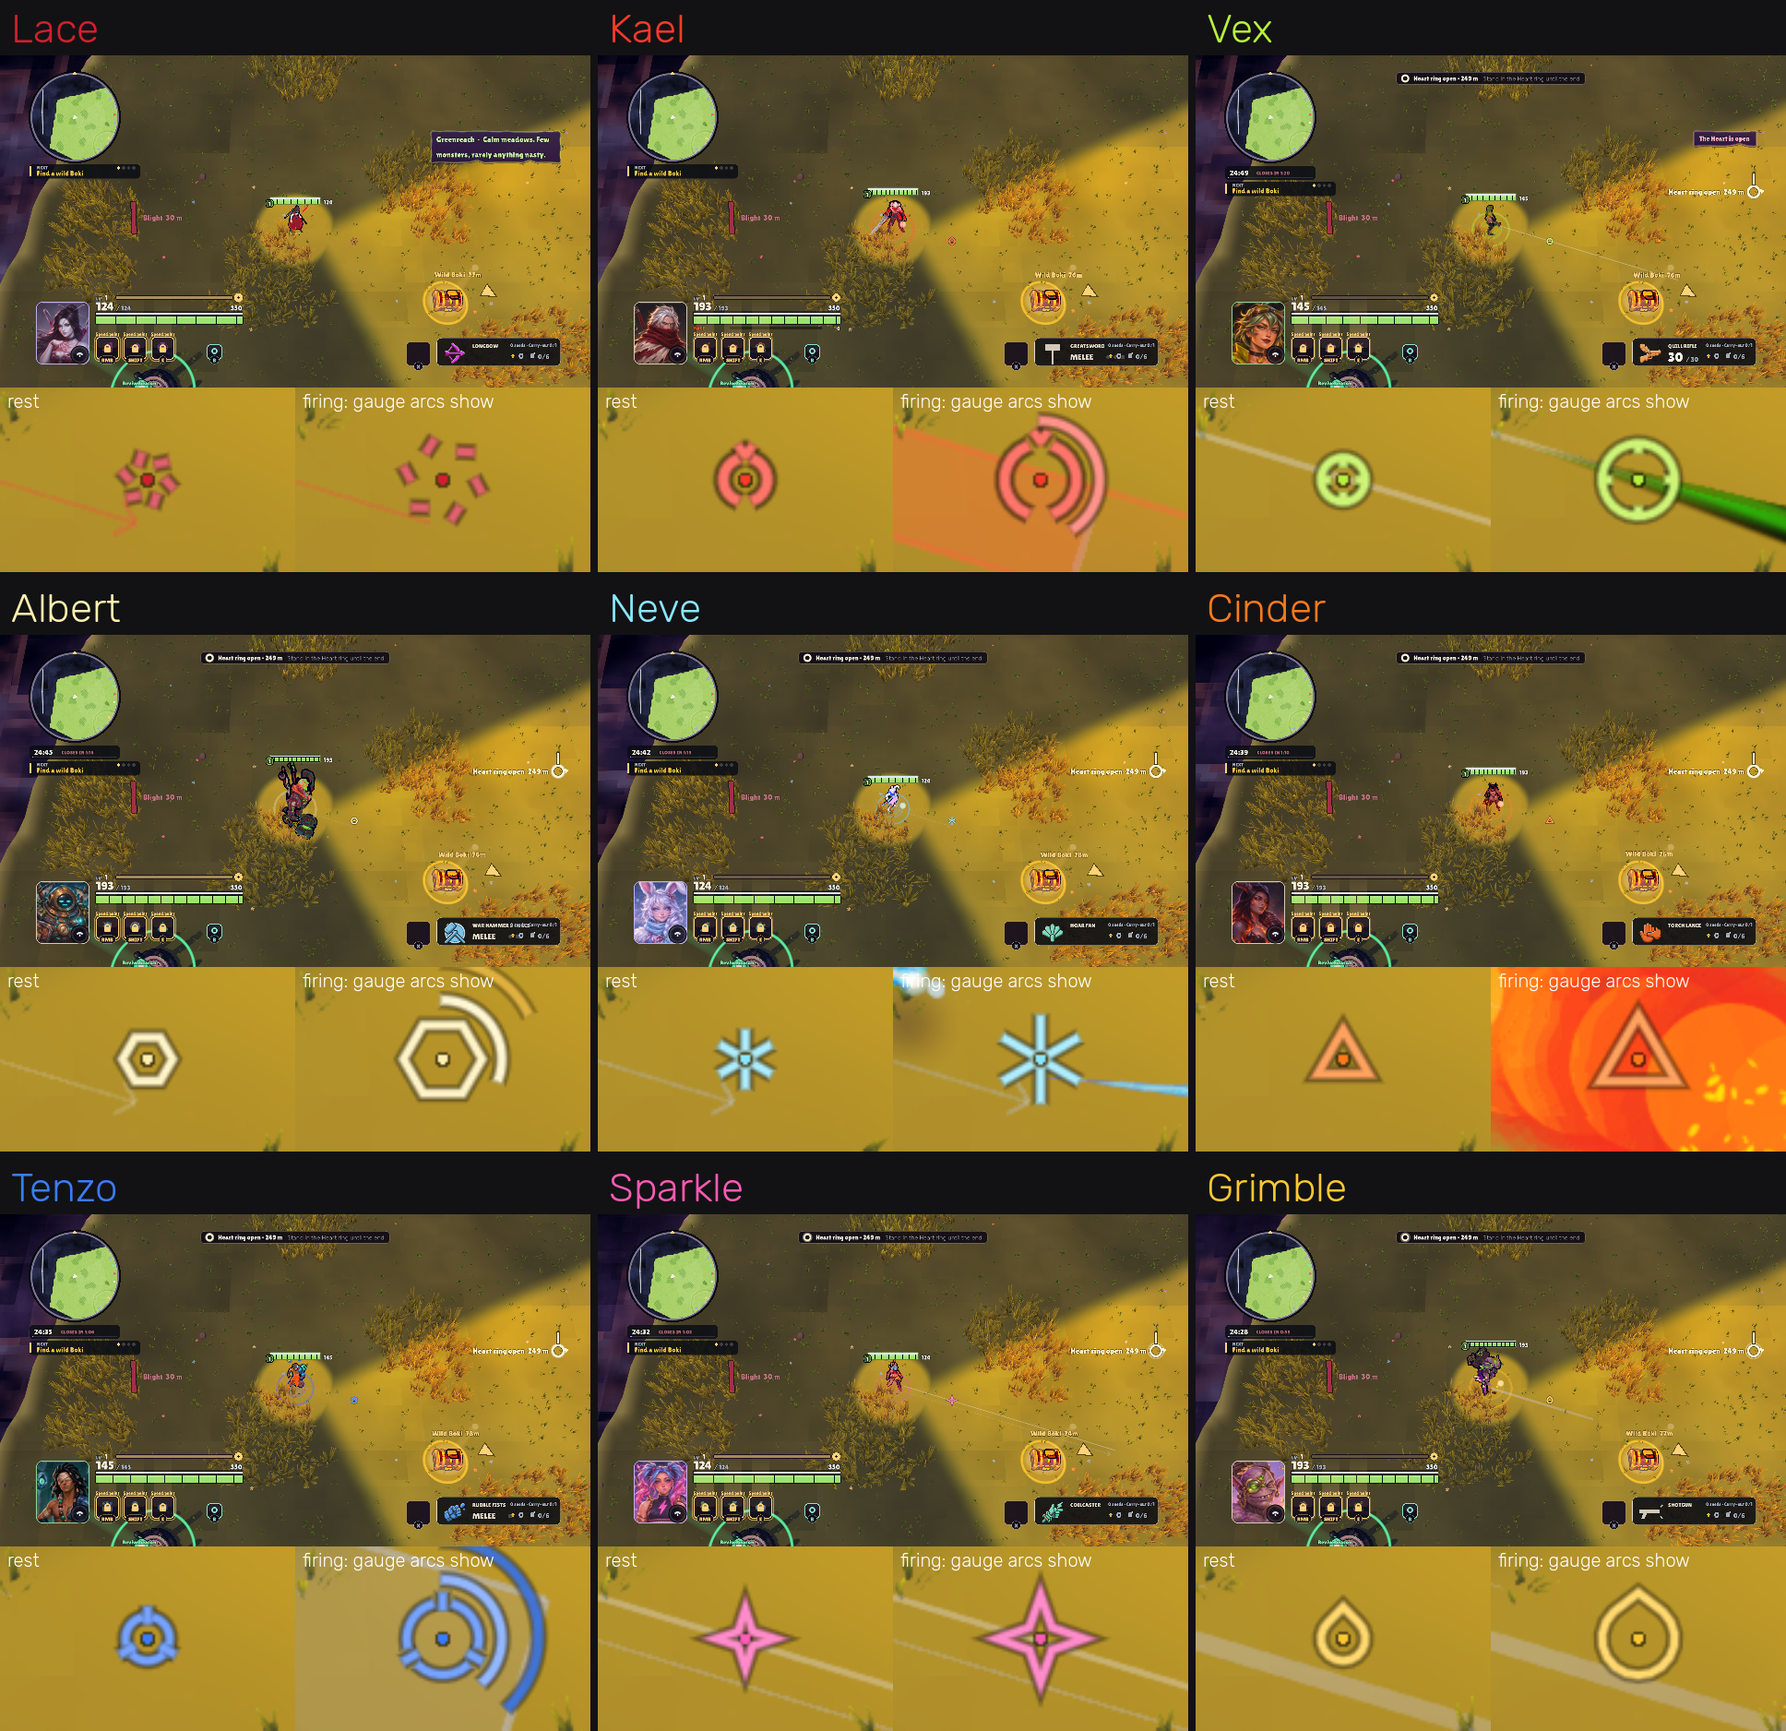
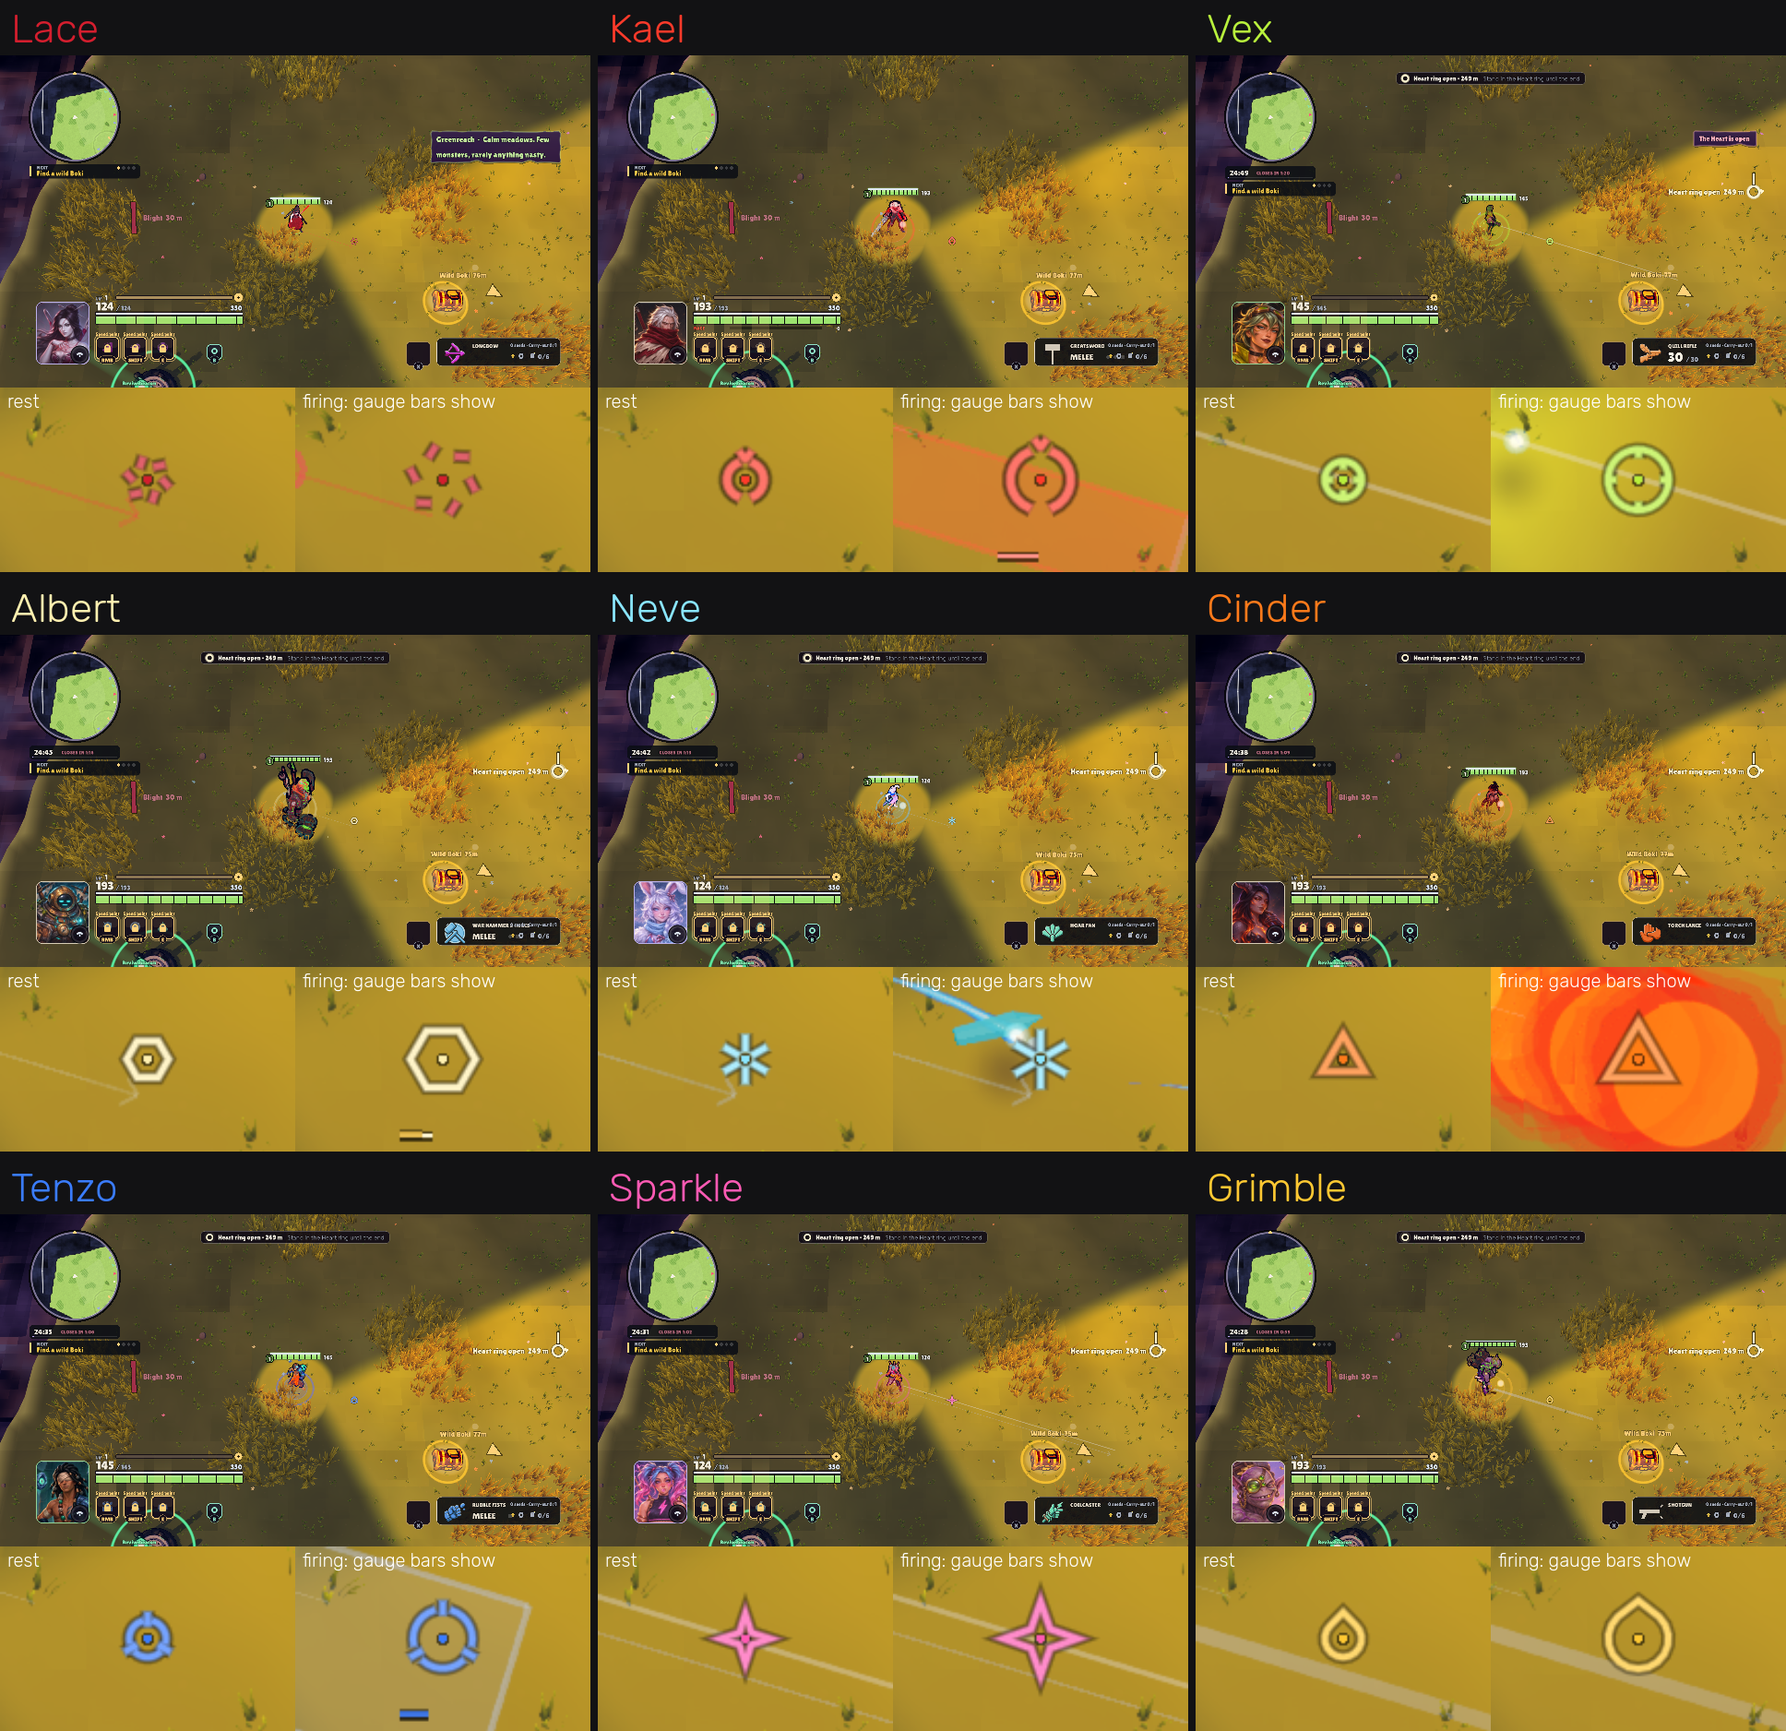
reticle: gauges are bars under the reticle, not arcs round it (art-gate: arcs read as a second ring)
Resource, charge, warm-up, spin-up and the AimKit cursor charge draw as short bars under the reticle
(Reticle.bar, tuning bar_w/bar_y/bar_step); the unused res_r is gone. The AimKit body-mode ring stays. Proof
sheets re-shot on a real GPU with a taller zoom so the bars show.

diff --git a/docs/wiki/Rules.md b/docs/wiki/Rules.md
@@ -2601,7 +2601,7 @@ The Boki base's playthings (GARDEN.md section 4; only while farm_build.json base
 | dash_glide | {"ease_t": 0.07, "grace": {"default": 0.15, "juggernaut": 0.25}} |
 | dash_speed | {"archer": 0.7} |
 | sources | {"doc": "Where each glide/air number comes from (SUPERVIVE_FEEL.md 'Footage pass', Nov 12 2026). Notes only, nothing here is read as a number. Trust order: owner > game data > wiki > footage.", "glide_cruise": "SETTLED 5.0 m/s x body_scale = 5.8 m/s (HunterMove.glide_cruise): [game data] MaxGlide 500 uu/s; [footage] ~5 m/s, run pace. Agree; at our body scale like the walk (decision 0061).", "glide_base_speeds": "Not determinable (GlideInitial*/TargetXY* encrypted): glide.drag/drag_steer/max are ours. No player glide start in the hero-ref clips; Elluna 706.8 s dash-into-glide still decaying (11 -> 8 m/s) when the track ends.", "glide_gravity": "Not determinable (GlideGravityFactor encrypted): Hunter.GLIDE_SINK 1.4 m/s is ours; footage shows only the height hold (Tom Kick ~14 s level) and lift (Zik ~1 s back up).", "glide_braking": "Not determinable (GlideBraking* encrypted): glide.coast and glide.brake/brake_deg are ours. Tetra guide 300 s and showcase 1174 s frame-stepped: no player let-go or back-key brake.", "hoop_boost": "Not determinable (GlideBoost* encrypted): no hoop or jetstream in any hero-ref clip.", "jump_hold": "Not determinable: a key hold is not visible on screen. Owner: fixed jump, Space held never opens the glider.", "air_dash": "Per Hunter (AirDashSpeedMultiplier/Clamp encrypted): Shiv ~1.7x ground (8.4 m / 0.95 s, dancer.md 303.8-304.5 s, 0129-0134), carried to the landing; Elluna 11-15 m / 0.8-1.1 s (mooshmoosh.md 731.1/706.8/735.9/745.1 s) = tender dash.air; Kingpin card 'further', air_k 1.35 est; the other nine: Not determinable, no air dash in their clips."} |
-| reticle | {"_about": "The cursor reticle (scripts/ui/reticle.gd, reticle_hud.gd). px at size 1 unless a key says otherwise.", "ring_r": 6.0, "dot_r": 1.4, "line_w": 1.3, "cross_len": 5.0, "cross_gap": 3.0, "edge_w": 0.8, "edge_a": 0.6, "look_lift": 0.3, "arc_gap_rad": 0.32, "spread_max": 16.0, "charge_r": 16.0, "res_r": 21.0, "arc_w": 1.5, "arc_w_full": 2.0, "flare_s": 0.18, "flare_grow": 7.0, "hit_s": 0.15, "hit_knock_s": 0.22, "hit_gap": 3.5, "hit_len": 7.0, "hit_len_crit": 10.5, "hit_w": 2.0, "hit_w_crit": 2.6, "hit_pop": 3.0, "hit_ring_flash": 0.85, "crit_pulse_grow": 9.0, "col_hit": "ffffff", "col_crit": "ffd23f", "col_armor": "dfe9f7", "col_armor_crit": "cfefff", "col_warm_up": "ffb34d"} |
+| reticle | {"_about": "The cursor reticle (scripts/ui/reticle.gd, reticle_hud.gd). px at size 1 unless a key says otherwise.", "ring_r": 6.0, "dot_r": 1.4, "line_w": 1.3, "cross_len": 5.0, "cross_gap": 3.0, "edge_w": 0.8, "edge_a": 0.6, "look_lift": 0.3, "arc_gap_rad": 0.32, "spread_max": 16.0, "charge_r": 16.0, "bar_w": 28.0, "bar_y": 25.0, "bar_step": 5.0, "arc_w": 1.5, "arc_w_full": 2.0, "flare_s": 0.18, "flare_grow": 7.0, "hit_s": 0.15, "hit_knock_s": 0.22, "hit_gap": 3.5, "hit_len": 7.0, "hit_len_crit": 10.5, "hit_w": 2.0, "hit_w_crit": 2.6, "hit_pop": 3.0, "hit_ring_flash": 0.85, "crit_pulse_grow": 9.0, "col_hit": "ffffff", "col_crit": "ffd23f", "col_armor": "dfe9f7", "col_armor_crit": "cfefff", "col_warm_up": "ffb34d"} |
 | lace | {"_note": "Lace's bow feel (PinDraw), owner 11-08: perfect_window_s = how long after a draw stage comes up a release is still perfect (the source's is about 0.15 s; the owner asked for about 0.2 s more); perfect_glow_rim / perfect_glow_col = the toon rim amount and hex colour on her body and bow while the window is open; perfect_payoff_rim / perfect_payoff_s = the stronger rim and its length in s on a perfect release.", "perfect_window_s": 0.35, "perfect_glow_rim": 1.2, "perfect_glow_col": "ffd36a", "perfect_payoff_rim": 2.4, "perfect_payoff_s": 0.16} |
 | tenzo | {"_note": "Tenzo (dolm). r_floor: the slab of rock ground his R (Basalt Spine) raises under him on the press, the same frame (BreahSpine.floor_under): r m round him (abyss tiles only turn to ground), time s it lasts, warn s of cracks and shake before it crumbles, rise s the slab takes to heave up (the ground is solid at once), col its stone. rmb: Quakefall's held hop (BreahSlam): windup s planted in a deep crouch before take-off, hop_up m/s up off the ground, fall_k the gravity multiplier on the way down (a thrown stone drops hard), ease how much faster than its average the hop leaves the ground (its ground speed eases to nil at the landing), carry the share of his run the hop keeps, nudge m/s the move keys bend its ground speed by, dive_hang s he hangs at the top of an air press before the plunge, dive_acc m/s^2 the plunge speeds up at toward its cap.", "r_floor": {"r": 1.6, "time": 6.0, "warn": 1.5, "rise": 0.12, "col": "#3e5560"}, "rmb": {"windup": 0.16, "hop_up": 6.0, "fall_k": 1.4, "ease": 1.5, "carry": 0.25, "nudge": 1.2, "dive_hang": 0.1, "dive_acc": 70.0}} |
 | feel | {"doc": "The match hunter's ledge, abyss, glide, drop, dive and landing numbers (HunterFeel, scripts/match/hunter_feel.gd; were consts in hunter.gd). Read once at load, not live.", "notes": {"spirit_climb": "m/s a Spirit Walk rises up a ledge face (Phase Walk goes through raised terrain)", "ground_accel": "[spec] near-instant: top speed in ~0.055s (was 70)", "air_decel": "let go on a ledge rise and you mostly stop", "air_overspeed": "but momentum above run speed (a dash, a pad) still carries", "glide_grav": "[O] m/s^2, gravity while a glider is open and the heat is gone", "glide_engage": "scripted input only (checks, demos): hold glide this long in the air and it opens. A player's keys never hold-open it (glide_press_only) (the dedicated glide button, Mouse 5, opens it at once)", "abyss_lift": "[est] upward pull (m/s^2) just under the lip...", "abyss_lift_per_m": "[est] ...plus this per metre deeper (10m down: 92 m/s^2)", "abyss_lift_max": "[est] fastest climb just under the lip...", "abyss_lift_max_per_m": "[est] ...plus this per metre deeper (12m down: ~18 m/s; item 63: ~30% under the old ~25)", "abyss_lift_cap": "item 63: the deepest climb is 30% softer than the old 26", "abyss_brake_dist": "...that brakes near ground level (let go just before to keep the height)", "abyss_brake": "[E] m/s^2, the brake that slows the lift in its last abyss_brake_dist", "abyss_lip_vy": "[est] m/s still rising as the lift reaches the lip: it bounces up past it", "abyss_brake_gain": "(movefeel) rise speed per metre left in the brake zone (was 2: the last metre crawled)", "mantle_reach": "[game data] MantleSuctionUpwardsForceHeightMax: a lip this far above you pulls you up", "tall_climb_extra": "m: Archer and Juggernaut also climb double-high ledges ([game data] bCanWallJump)", "mantle_reach_abyss": "below an island's lip over the abyss, its side catches you this far down (movefeel: was 3.5) (a bit past the normal ledge reach); deeper you slide down the face", "wall_catch_reach": "(movefeel) over the abyss below a lip, a wall this far from your side catches you (elsewhere 0.4)", "abyss_glide_room": "a glider with heat left (lifting you out) gets this much more room", "ledge_reach": "[E] m, a ledge this far above you can be climbed (walk into it)", "ledge_cd": "[E] s, before another ledge climb may start", "float_speed": "[E] m/s, the fastest a float (a lift's hang at the top) carries you sideways", "glide_fall": "[O] m/s, the glider's sink with fuel (the readout's number)", "dive_fall": "[est] a punchy skydive (was 11)", "dive_speed": "m/s, top flat speed in the dive (DropFeel)", "drop_fall": "[E] m/s, the open glider's sink in the opening drop", "drop_speed": "m/s, top flat speed under the open glider", "dive_vy_rate": "the dive reaches its fall speed in ~0.3s (was 4)", "drop_vy_rate": "the canopy settles to its sink in ~0.2s after it opens (was 4)", "deploy_pop": "the canopy catching: your fall checks to this, then settles to DROP_FALL", "deploy_h": "the glider opens by itself this high above the ground", "feather_keep": "[est] seconds after a glider close that count as just off it (ledges, wall shove)", "feather_min": "[est] the glider reopens with this much heat room left (was 0.15)", "feather_tap": "[est] an abyss lift's quick first seconds, heating at HunterMove.lift_tap_heat", "lrise_speed": "[footage] the fastest rise from deep in the abyss (HunterMove.rise_vy)", "lrise_min": "[est] up speed walking into a ledge starts its rise with", "lrise_pop": "[est] up speed as you clear the lip with no jump (a ~0.25m pop)", "lrise_off": "moved this far out from the face: you've let go", "lrise_window": "[est] the fling window: the last this-many metres below the top (~0.12s)", "fling_height": "[est] a fling timed in the window peaks this high over the top...", "fling_speed": "[est] ...going this fast toward your keys (run speed is ~5)", "fling_early_height": "[est] a jump before the window: only just over the top, at run speed", "abyss_extra": "[game data] AbyssHeight: lost 17.5m under ground level (with World.ABYSS_DEPTH)"}, "spirit_climb": 14.0, "ground_accel": 90.0, "air_decel": 9.0, "air_overspeed": 3.0, "glide_grav": 14.0, "glide_engage": 0.1, "abyss_lift": 22.0, "abyss_lift_per_m": 7.0, "abyss_lift_max": 5.0, "abyss_lift_max_per_m": 1.1, "abyss_lift_cap": 18.2, "abyss_brake_dist": 2.5, "abyss_brake": 60.0, "abyss_lip_vy": 4.5, "abyss_brake_gain": 3.5, "mantle_reach": 1.5, "tall_climb_extra": 0.9, "mantle_reach_abyss": 4.5, "wall_catch_reach": 0.75, "abyss_glide_room": 1.5, "ledge_reach": 2.8, "ledge_cd": 0.45, "float_speed": 12.0, "glide_fall": 1.7, "dive_fall": 13.0, "dive_speed": 14.0, "drop_fall": 4.2, "drop_speed": 8.0, "dive_vy_rate": 7.0, "drop_vy_rate": 9.0, "deploy_pop": -1.6, "deploy_h": 8.0, "feather_keep": 0.6, "feather_min": 0.05, "feather_tap": 0.3, "lrise_speed": 14.0, "lrise_min": 4.0, "lrise_pop": 2.6, "lrise_off": 0.9, "lrise_window": 0.6, "fling_height": 0.9, "fling_speed": 7.5, "fling_early_height": 0.2, "abyss_extra": 11.5} |

diff --git a/docs/AIMKIT.md b/docs/AIMKIT.md
@@ -11,7 +11,7 @@ cursor state plus `MANIFEST.txt`).
 | `aim_draw.gd` (`AimDraw`) | One node per match. Rebuilds every telegraph into one ArrayMesh each frame (AimGeo's packed arrays, one call per surface) |
 | `aim_shapes.gd` (`AimShapes`) | The shape builders and the quiet default look |
 | `aim_geo.gd` (`AimGeo`) | Triangle helpers (ribbons, rings, sectors, chevrons, stars) that sit each vertex on the ground |
-| `aim_reticle.gd` (`AimReticle`) | The cursor states: charge ring (filled part only, no track), full flare, perfect star |
+| `aim_reticle.gd` (`AimReticle`) | The cursor states: charge bar under the cursor (filled part only), full flare, perfect star |
 | `scripts/ui/reticle.gd`, `reticle_hud.gd` (`Reticle`, `ReticleHud`) | The cursor reticle under them: the broken ring that opens with bloom, the dot in the Hunter's accent (`Arch.color`, the Hunter's own colour: Vex green, Sparkle pink, Tenzo blue), the ammo / resource / charge arcs, the hit tick (raised by `hud.reticle`, one per landed hit, gold on a crit, longer on a knock). Thin strokes with a dark edge; numbers in `content/rules/tuning.json` "reticle" |
 | `aim_reach.gd` (`AimReach`) | The range preview of a ground-target slot: a faint max-range ring and the landing disc |
 
@@ -208,8 +208,8 @@ AimKit.perfect(h)                    # the perfect-window star: gold 4-point sta
 AimKit.reticle(h)                    # {charge, flare, perfect, at}, for checks
 ```
 Params: `col` (charge ring colour, default the hero colour), `col2` (flare colour), and `col` on
-`perfect` (gold by default). The states run on real time, so they show through hit stop. The ring sits
-at 26 px, outside the HUD's 22 px ammo ring and inside its 30 px resource arc.
+`perfect` (gold by default). The states run on real time, so they show through hit stop. The charge is a bar under
+the cursor (slot 0; the resource bar is slot 1), and the flare ring starts at 26 px.
 
 ## 3b. The body's aim across terraces (pose only)
 `inp["aim_y"]` is the height of what the cursor is on; the shot climbs or dips to it (`Match.AIM_DY_MAX`, rises under 0.3 m stay flat). The body now follows the same number: `AimPitch.of(h)` is `atan2(rise, max(1.5 m, distance))` clamped to +-20 degrees (`AimPitch.MAX`), 0 on flat ground and past `AIM_DY_MAX`. `HunterAnim` eases it (10/s) and weights it by the aim (LMB hold, casts, kit moves; not dashes, glides, dives, ledges, rolls or downed). The spine takes half (the Torso, or the hips bone on a .glb: the thighs do not follow, so the feet stay planted), the arms and weapon the other half (`WardenAim` after the clips, for the .glb; the procedural rig in `_upper`). Projectiles and telegraphs are unchanged: this is the pose, not the hit. The 20 degree clamp is ours: the briefs hold no footage measurement of the source's aim lean (open: measure it). Remote players show flat (`aim_y` is not synced, no Net change). Proof: `--aim-pitch-check`.

diff --git a/docs/HUD.d/1126-reticle-looks.md b/docs/HUD.d/1126-reticle-looks.md
@@ -8,16 +8,15 @@ Sable corner brackets, Motley a harlequin diamond, Gil a ring with a fin. With t
 Hunter's colour lifted by tuning `look_lift` (dark colours still read on dark ground); the dot keeps the plain accent.
 Every look is strokes only, at most 3 px past the plain ring, and opens with bloom.
 
-The ammo no longer draws at the cursor (tuning `reticle.ammo_at_cursor`, default 0): next to the ring it read as a
-second ring on most Hunters, and the reference game keeps ammo in the weapon panel, not at the cursor; ours is in the
-HUD's weapon panel too. Set it to 1 to bring the thin ammo arc back. The other gauge arcs (resource, charge, and the
-AimKit charge ring) draw only their filled part over a thin dark edge (`Reticle.arc`, edge only with the outline
-setting on): the black full-length track they used to sit on read as a shadow ring round the reticle. Kael's blade tick
-above his shackle arcs is part of his look. The gauge arcs sit clear of the look (charge at 16 px, resource at 21 px, a
-quarter-circle, thinner strokes) so they read as gauges, not as a second ring.
+The ammo no longer draws at the cursor (the arc and its tuning keys are gone): next to the ring it read as a second ring
+on most Hunters; the ammo is in the HUD's weapon panel. The gauges (resource, charge, warm-up, spin-up and the AimKit
+charge) are short bars under the reticle (`Reticle.bar`, tuning `bar_w`/`bar_y`/`bar_step`: charge in slot 0, resource
+in slot 1), filled part only over a thin dark edge: a gauge that wrapped the ring read as a second ring (art-gate, twice).
+Only the AimKit charge "body" mode still draws a ring, round the Hunter, not the cursor. Kael's blade tick above his
+shackle arcs is part of his look.
 Checks: `--reticle-check` (every Hunter's look is known and its own; every look draws).
 Proof (real GPU, `--resolution 1920x1080`): `--reticle-looks-shots` (dark/light/grass swatch rows, labelled, at rest)
-and `--reticle-proof-shots` (every Hunter full frame at rest and firing on flower-free grass, contact sheets of 3 tiles a row with 2.7x zoom).
+and `--reticle-proof-shots` (every Hunter full frame at rest and firing on flower-free grass, contact sheets of 3 tiles a row with 2.2x zoom).
 Shots: `docs/shots/reticle_looks_1126b_swatches.png` (dark/light/grass at rest), `reticle_looks_1126b_sheet1.png` and
-`_sheet2.png` (every Hunter on a meadow at 1920x1080, tile = full frame, 2.7x zoom at rest and firing, cursor on flower-free grass). The 26 full
+`_sheet2.png` (every Hunter on a meadow at 1920x1080, tile = full frame, 2.2x zoom at rest and firing, cursor on flower-free grass). The 26 full
 frames are in `/home/boki/gens/reticle-looks-1126b/`. A cursor sitting on grass at rest is the same size and colour as on dark/light.
